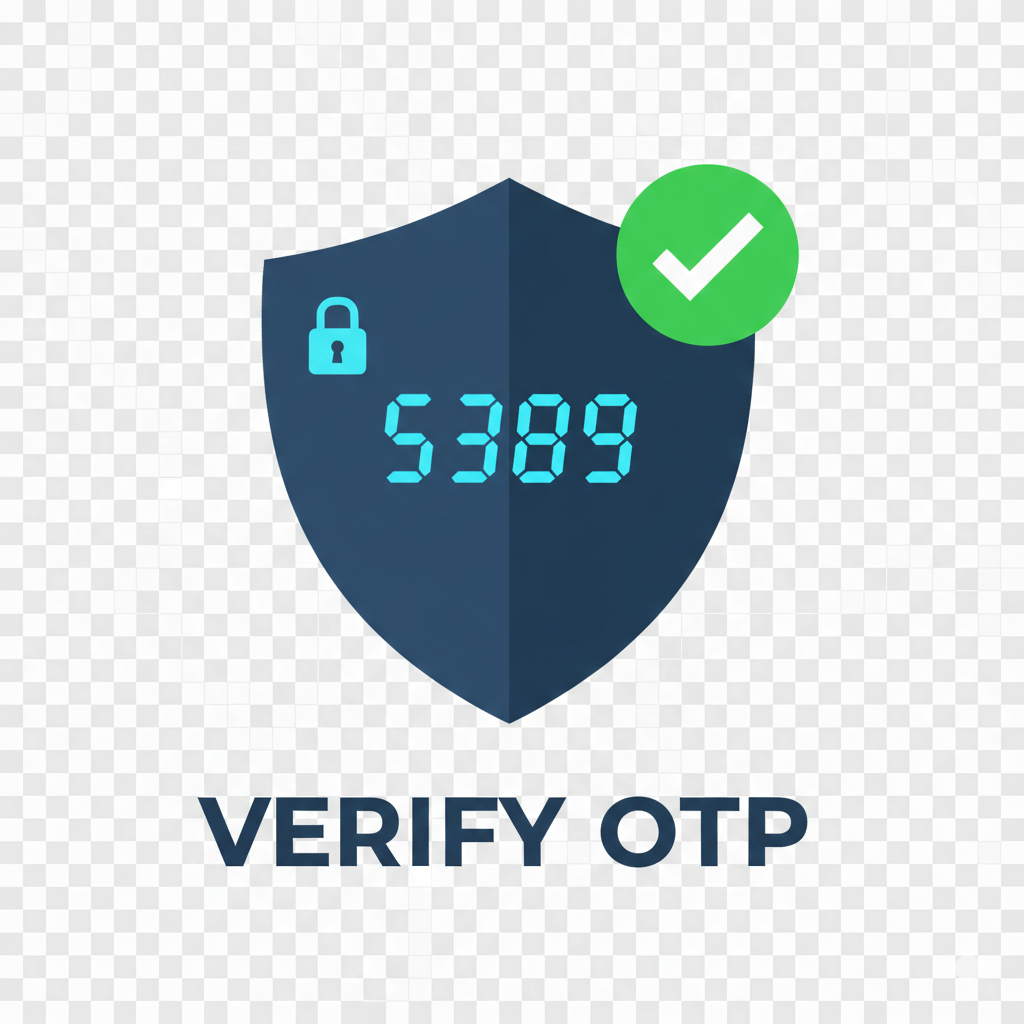
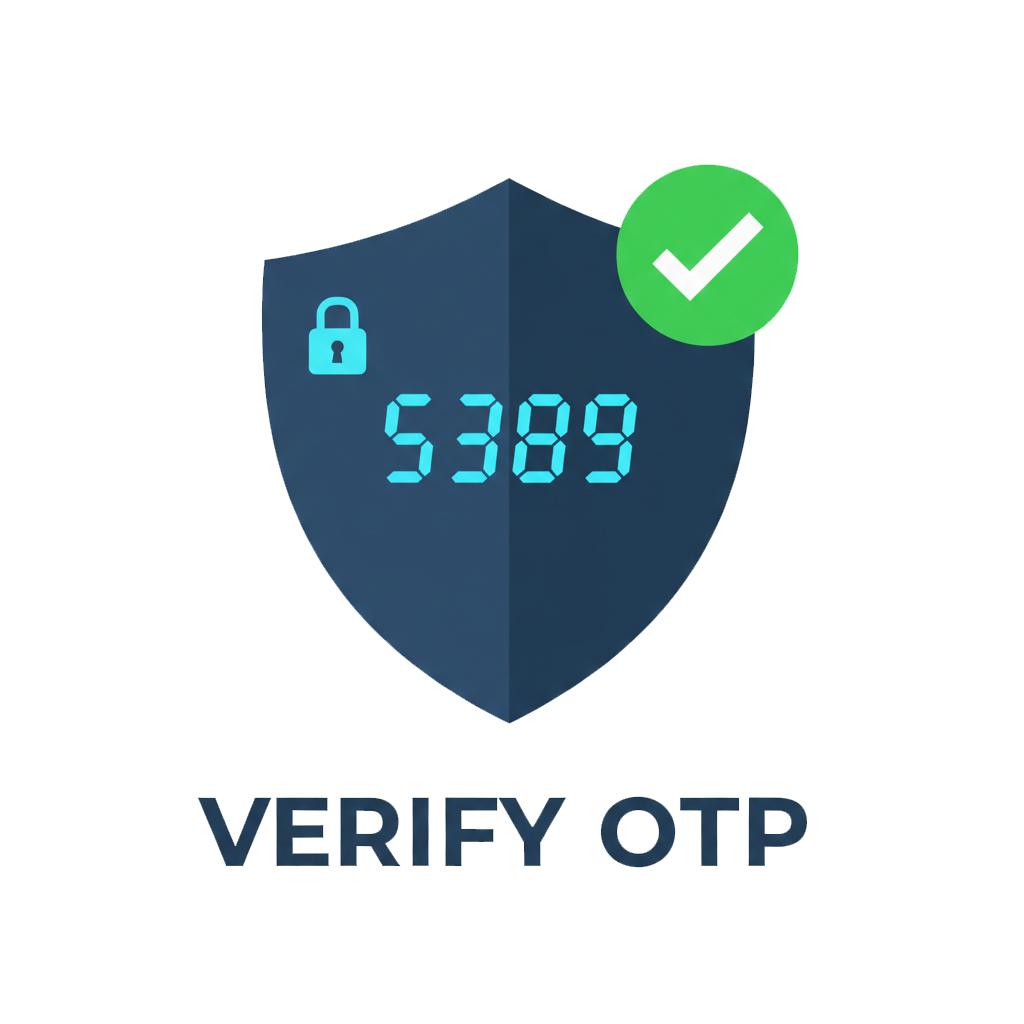
fix verify email

diff --git a/src/stores/profilestore.js b/src/stores/profilestore.js
@@ -237,10 +237,10 @@ export const useProfileStore = defineStore("profile", () => {
     clearMessages();
 
     try {
-      if (!token) {
-        profileError.value = "តំណផ្ទៀងផ្ទាត់មិនត្រឹមត្រូវ។";
-        return false;
-      }
+      // if (!token) {
+      //   profileError.value = "តំណផ្ទៀងផ្ទាត់មិនត្រឹមត្រូវ។";
+      //   return false;
+      // }
 
       const payload = newEmail ? { token, newEmail } : { token };
       const res = await api.post("/auth/verify-change-email", payload);

diff --git a/src/views/authentication/VerifyOTP.vue b/src/views/authentication/VerifyOTP.vue
@@ -23,7 +23,7 @@
           <div class="glow-circle" :style="parallaxStyle(-10)"></div>
           <div class="z-2 text-center content-wrapper">
             <img
-              src="https://cdn3d.iconscout.com/3d/free/thumb/free-security-shield-4392262-3640417.png"
+              src="../../assets/images/verifyOTP.png"
               alt="OTP Security"
               class="img-fluid mb-4 floating-3d"
               :style="parallaxStyle(15)"

diff --git a/src/views/authentication/VerifyEmail.vue b/src/views/authentication/VerifyEmail.vue
@@ -23,7 +23,7 @@
           <div class="glow-circle" :style="parallaxStyle(-10)"></div>
           <div class="z-2 text-center content-wrapper">
             <img
-              src="https://cdn3d.iconscout.com/3d/free/thumb/free-mail-2997198-2491684.png"
+              src="../../assets/images/verifyEmail.png"
               alt="Email 3D"
               class="img-fluid mb-4 floating-3d"
               :style="parallaxStyle(15)"

diff --git a/src/views/authentication/VerifyEmailChange.vue b/src/views/authentication/VerifyEmailChange.vue
@@ -215,7 +215,7 @@ const confirmEmailChange = async () => {
           name: "ProfileSetting",
           query: { emailChanged: "success" },
         });
-      }, 3000);
+      }, 1000);
     } else {
       verificationError.value =
         profileStore.profileError || "ការផ្ទៀងផ្ទាត់បានបរាជ័យ។";
